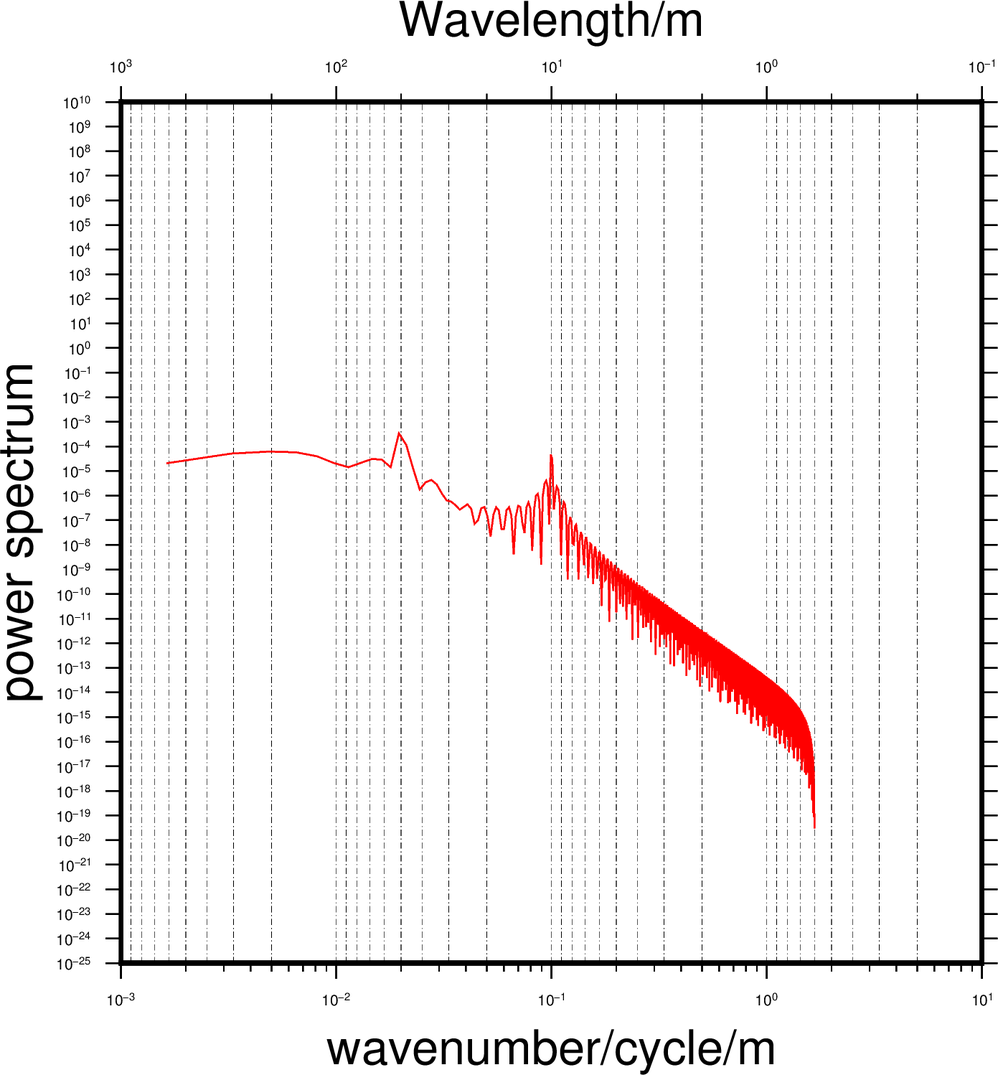
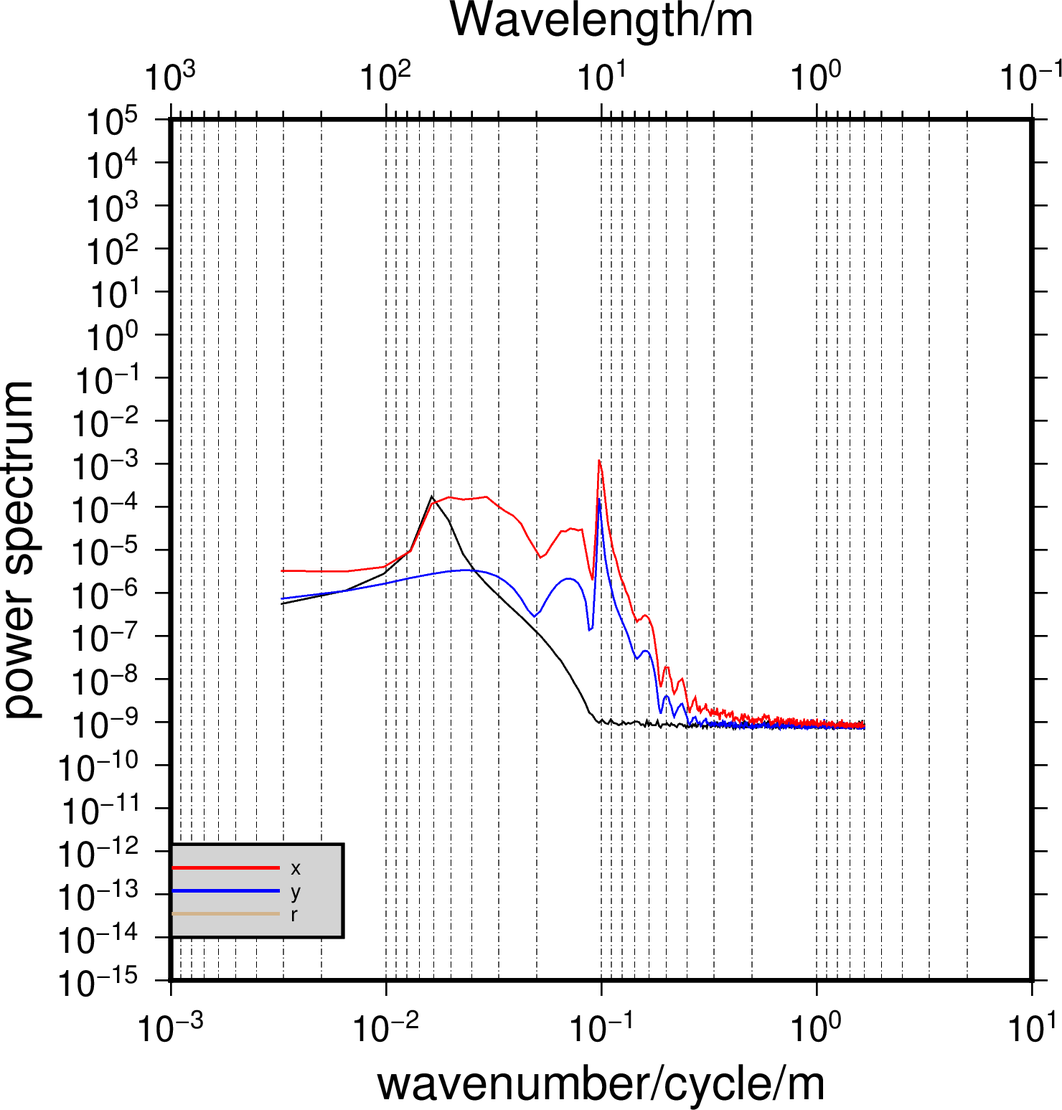
Site updated: 2020-04-19 18:57:03

Changed region(s): [[0.0, 0.0, 1.0, 1.0], [0.9892, 0.0307, 1.0, 0.0614]]

diff --git a/2020/02/15/wavenumber/index.html b/2020/02/15/wavenumber/index.html
@@ -57,7 +57,7 @@
 <meta property="og:image" content="http://assz0a.coding-pages.com/images/gf-fft.png">
 <meta property="og:image" content="http://assz0a.coding-pages.com/images/grid_fft.png">
 <meta property="article:published_time" content="2020-02-15T14:01:51.000Z">
-<meta property="article:modified_time" content="2020-03-02T08:07:08.500Z">
+<meta property="article:modified_time" content="2020-04-19T10:56:23.238Z">
 <meta property="article:author" content="Yang Lei">
 <meta property="article:tag" content="GMT">
 <meta property="article:tag" content="DFT">
@@ -227,7 +227,7 @@
                   <i class="fa fa-calendar-check-o"></i>
                 </span>
                 <span class="post-meta-item-text">更新于</span>
-                <time title="修改时间：2020-03-02 16:07:08" itemprop="dateModified" datetime="2020-03-02T16:07:08+08:00">2020-03-02</time>
+                <time title="修改时间：2020-04-19 18:56:23" itemprop="dateModified" datetime="2020-04-19T18:56:23+08:00">2020-04-19</time>
               </span>
 
           
@@ -285,14 +285,18 @@
 <li>波长为50m和10m的叠加。</li>
 <li>加入了白噪声。</li>
 </ul>
-<figure class="highlight matlab"><table><tr><td class="gutter"><pre><span class="line">1</span><br><span class="line">2</span><br><span class="line">3</span><br><span class="line">4</span><br><span class="line">5</span><br><span class="line">6</span><br><span class="line">7</span><br><span class="line">8</span><br><span class="line">9</span><br><span class="line">10</span><br><span class="line">11</span><br><span class="line">12</span><br><span class="line">13</span><br><span class="line">14</span><br><span class="line">15</span><br><span class="line">16</span><br><span class="line">17</span><br><span class="line">18</span><br><span class="line">19</span><br><span class="line">20</span><br><span class="line">21</span><br><span class="line">22</span><br><span class="line">23</span><br><span class="line">24</span><br><span class="line">25</span><br><span class="line">26</span><br><span class="line">27</span><br><span class="line">28</span><br><span class="line">29</span><br><span class="line">30</span><br><span class="line">31</span><br><span class="line">32</span><br><span class="line">33</span><br><span class="line">34</span><br><span class="line">35</span><br><span class="line">36</span><br><span class="line">37</span><br><span class="line">38</span><br><span class="line">39</span><br><span class="line">40</span><br><span class="line">41</span><br><span class="line">42</span><br><span class="line">43</span><br><span class="line">44</span><br><span class="line">45</span><br></pre></td><td class="code"><pre><span class="line"><span class="comment">% test NetCDF write</span></span><br><span class="line">clear all;</span><br><span class="line">delete (<span class="string">'test_files.nc'</span>)</span><br><span class="line"></span><br><span class="line">lati = <span class="built_in">linspace</span>(<span class="number">0</span>,<span class="number">1600</span>*<span class="number">0.3</span>,<span class="number">1600</span>);</span><br><span class="line">long = <span class="built_in">linspace</span>(<span class="number">0</span>,<span class="number">801</span>*<span class="number">0.3</span>,<span class="number">801</span>);</span><br><span class="line"></span><br><span class="line"><span class="comment">% simulate wave </span></span><br><span class="line">ssh2 = <span class="built_in">linspace</span>(<span class="number">0</span>,<span class="number">801</span>*<span class="number">1600</span>*<span class="number">0.3</span>,<span class="number">801</span>*<span class="number">1600</span>);</span><br><span class="line">ssh_wave = <span class="built_in">reshape</span> (ssh2,<span class="number">1600</span>,<span class="number">801</span>);</span><br><span class="line">temp = ssh_wave;</span><br><span class="line"><span class="keyword">for</span> <span class="built_in">i</span>=<span class="number">1</span>:<span class="number">1600</span></span><br><span class="line">    <span class="keyword">for</span> <span class="built_in">j</span>=<span class="number">1</span>:<span class="number">801</span></span><br><span class="line">        temp(<span class="built_in">i</span>,<span class="built_in">j</span>) = <span class="number">10</span>*<span class="built_in">cos</span>(<span class="number">2</span>*<span class="built_in">pi</span>/<span class="number">50</span>*ssh_wave(<span class="built_in">i</span>,<span class="built_in">j</span>))+<span class="number">5</span>*<span class="built_in">cos</span>(<span class="number">2</span>*<span class="built_in">pi</span>/<span class="number">10</span>*ssh_wave(<span class="built_in">i</span>,<span class="built_in">j</span>));</span><br><span class="line">    <span class="keyword">end</span></span><br><span class="line"><span class="keyword">end</span></span><br><span class="line"><span class="comment">% add noise</span></span><br><span class="line">ssh_wave = temp;<span class="comment">%+rand(1600,801);</span></span><br><span class="line"></span><br><span class="line"><span class="built_in">plot</span>(temp(<span class="number">1</span>:<span class="number">170</span>))</span><br><span class="line"></span><br><span class="line">nccreate(<span class="string">'test_files.nc'</span>,<span class="string">'lat'</span>,<span class="string">'Dimensions'</span>,&#123;<span class="string">'lat'</span> <span class="number">1600</span>&#125;);</span><br><span class="line">ncwriteatt(<span class="string">'test_files.nc'</span>, <span class="string">'lat'</span>, <span class="string">'standard_name'</span>, <span class="string">'latitude'</span>);</span><br><span class="line">ncwriteatt(<span class="string">'test_files.nc'</span>, <span class="string">'lat'</span>, <span class="string">'long_name'</span>, <span class="string">'latitude'</span>);</span><br><span class="line">ncwriteatt(<span class="string">'test_files.nc'</span>, <span class="string">'lat'</span>, <span class="string">'units'</span>, <span class="string">'degrees north'</span>);</span><br><span class="line">ncwriteatt(<span class="string">'test_files.nc'</span>, <span class="string">'lat'</span>, <span class="string">'_CoordinateAxisType'</span>, <span class="string">'Lat'</span>);</span><br><span class="line"><span class="comment">% ncwriteatt('test_files.nc','/','standard_name','latitude');</span></span><br><span class="line">nccreate(<span class="string">'test_files.nc'</span>,<span class="string">'lon'</span>,<span class="string">'Dimensions'</span>,&#123;<span class="string">'lon'</span> <span class="number">801</span>&#125;);</span><br><span class="line">ncwriteatt(<span class="string">'test_files.nc'</span>, <span class="string">'lon'</span>, <span class="string">'standard_name'</span>, <span class="string">'longitude'</span>);  <span class="comment">% 注意属性名，如果大于360的笛卡尔坐标，都不要用经纬度的名称。</span></span><br><span class="line">ncwriteatt(<span class="string">'test_files.nc'</span>, <span class="string">'lon'</span>, <span class="string">'long_name'</span>, <span class="string">'longitude'</span>);</span><br><span class="line">ncwriteatt(<span class="string">'test_files.nc'</span>, <span class="string">'lon'</span>, <span class="string">'units'</span>, <span class="string">'degrees north'</span>);</span><br><span class="line">ncwriteatt(<span class="string">'test_files.nc'</span>, <span class="string">'lon'</span>, <span class="string">'_CoordinateAxisType'</span>, <span class="string">'Lon'</span>);</span><br><span class="line"></span><br><span class="line">nccreate(<span class="string">'test_files.nc'</span>,<span class="string">'Q'</span>,<span class="string">'datatype'</span>,<span class="string">'double'</span>,<span class="string">'Dimensions'</span>,&#123;<span class="string">'lat'</span> <span class="number">1600</span> <span class="string">'lon'</span> <span class="number">801</span>&#125;);</span><br><span class="line">ncwriteatt(<span class="string">'test_files.nc'</span>, <span class="string">'Q'</span>, <span class="string">'standard_name'</span>, <span class="string">'ssh'</span>);</span><br><span class="line">ncwriteatt(<span class="string">'test_files.nc'</span>, <span class="string">'Q'</span>, <span class="string">'long_name'</span>, <span class="string">'sea surface height'</span>);</span><br><span class="line">ncwriteatt(<span class="string">'test_files.nc'</span>, <span class="string">'Q'</span>, <span class="string">'units'</span>, <span class="string">'m'</span>);</span><br><span class="line"></span><br><span class="line"><span class="comment">% ncdisp('test_files.nc');</span></span><br><span class="line">ncwrite(<span class="string">'test_files.nc'</span>,<span class="string">'lat'</span>,lati);</span><br><span class="line">ncwrite(<span class="string">'test_files.nc'</span>,<span class="string">'lon'</span>,long);</span><br><span class="line"></span><br><span class="line">ncwrite(<span class="string">'test_files.nc'</span>,<span class="string">'Q'</span>,ssh_wave);</span><br><span class="line"></span><br><span class="line">ncdisp(<span class="string">'test_files.nc'</span>);</span><br></pre></td></tr></table></figure>
+<figure class="highlight matlab"><table><tr><td class="gutter"><pre><span class="line">1</span><br><span class="line">2</span><br><span class="line">3</span><br><span class="line">4</span><br><span class="line">5</span><br><span class="line">6</span><br><span class="line">7</span><br><span class="line">8</span><br><span class="line">9</span><br><span class="line">10</span><br><span class="line">11</span><br><span class="line">12</span><br><span class="line">13</span><br><span class="line">14</span><br><span class="line">15</span><br><span class="line">16</span><br><span class="line">17</span><br><span class="line">18</span><br><span class="line">19</span><br><span class="line">20</span><br><span class="line">21</span><br><span class="line">22</span><br><span class="line">23</span><br><span class="line">24</span><br><span class="line">25</span><br><span class="line">26</span><br><span class="line">27</span><br><span class="line">28</span><br><span class="line">29</span><br><span class="line">30</span><br><span class="line">31</span><br><span class="line">32</span><br><span class="line">33</span><br><span class="line">34</span><br><span class="line">35</span><br><span class="line">36</span><br><span class="line">37</span><br><span class="line">38</span><br><span class="line">39</span><br><span class="line">40</span><br><span class="line">41</span><br><span class="line">42</span><br><span class="line">43</span><br><span class="line">44</span><br><span class="line">45</span><br><span class="line">46</span><br><span class="line">47</span><br><span class="line">48</span><br><span class="line">49</span><br><span class="line">50</span><br><span class="line">51</span><br><span class="line">52</span><br><span class="line">53</span><br><span class="line">54</span><br><span class="line">55</span><br><span class="line">56</span><br><span class="line">57</span><br></pre></td><td class="code"><pre><span class="line"><span class="comment">% test NetCDF write</span></span><br><span class="line"><span class="comment">% Author: Yang Lei,2020-04-19,Qingdao. Email:leiyang@fio.org.cn</span></span><br><span class="line">clear all;</span><br><span class="line">delete (<span class="string">'test_simulate.nc'</span>)</span><br><span class="line">lati = <span class="built_in">linspace</span>(<span class="number">0</span>,<span class="number">1600</span>*<span class="number">0.3</span>,<span class="number">1600</span>);</span><br><span class="line">long = <span class="built_in">linspace</span>(<span class="number">0</span>,<span class="number">1600</span>*<span class="number">0.3</span>,<span class="number">1600</span>);</span><br><span class="line"></span><br><span class="line"><span class="comment">% simulate wave </span></span><br><span class="line"><span class="comment">% build 1D sinewave</span></span><br><span class="line">SineMid = <span class="built_in">sin</span>(<span class="number">2</span>*<span class="built_in">pi</span>/<span class="number">10</span>*long);</span><br><span class="line"></span><br><span class="line"><span class="comment">% translate 1D wave into 2D sinewave</span></span><br><span class="line">SinewaveM = <span class="built_in">repmat</span>(SineMid,[<span class="number">1600</span>,<span class="number">1</span>]);</span><br><span class="line">imagesc(SinewaveM)</span><br><span class="line">Angle = <span class="number">10</span>;</span><br><span class="line">Irot = imrotate(SinewaveM, Angle, <span class="string">'loose'</span>, <span class="string">'bilinear'</span>);</span><br><span class="line"><span class="comment">% imagesc(Irot)</span></span><br><span class="line"></span><br><span class="line"><span class="comment">% figure out the image size of new Sinewave.</span></span><br><span class="line">Start = <span class="built_in">floor</span>(<span class="built_in">size</span>(Irot,<span class="number">1</span>)/<span class="number">4</span>);</span><br><span class="line">Stop = <span class="number">3</span>*Start;</span><br><span class="line"> </span><br><span class="line"><span class="comment">% image crop</span></span><br><span class="line">Icrop = Irot(Start:Stop,Start:Stop);</span><br><span class="line">L_x=<span class="built_in">length</span>(Icrop);</span><br><span class="line"></span><br><span class="line">temp=Icrop;</span><br><span class="line"></span><br><span class="line">ssh_wave = temp+<span class="number">0.1</span>*<span class="built_in">rand</span>(L_x,L_x);</span><br><span class="line">imagesc(ssh_wave)</span><br><span class="line"></span><br><span class="line"><span class="comment">% netcdf.create</span></span><br><span class="line">nccreate(<span class="string">'test_simulate.nc'</span>,<span class="string">'lat'</span>,<span class="string">'Dimensions'</span>,&#123;<span class="string">'lat'</span> L_x&#125;);</span><br><span class="line"></span><br><span class="line">ncwriteatt(<span class="string">'test_simulate.nc'</span>, <span class="string">'lat'</span>, <span class="string">'standard_name'</span>, <span class="string">'lat'</span>);</span><br><span class="line">ncwriteatt(<span class="string">'test_simulate.nc'</span>, <span class="string">'lat'</span>, <span class="string">'long_name'</span>, <span class="string">'lat'</span>);</span><br><span class="line">ncwriteatt(<span class="string">'test_simulate.nc'</span>, <span class="string">'lat'</span>, <span class="string">'units'</span>, <span class="string">'meter'</span>);</span><br><span class="line">ncwriteatt(<span class="string">'test_simulate.nc'</span>, <span class="string">'lat'</span>, <span class="string">'_CoordinateAxisType'</span>, <span class="string">'Lat'</span>);</span><br><span class="line"><span class="comment">% ncwriteatt('test_files.nc','/','standard_name','latitude');</span></span><br><span class="line">nccreate(<span class="string">'test_simulate.nc'</span>,<span class="string">'lon'</span>,<span class="string">'Dimensions'</span>,&#123;<span class="string">'lon'</span> L_x&#125;);</span><br><span class="line">ncwriteatt(<span class="string">'test_simulate.nc'</span>, <span class="string">'lon'</span>, <span class="string">'standard_name'</span>, <span class="string">'lon'</span>);</span><br><span class="line">ncwriteatt(<span class="string">'test_simulate.nc'</span>, <span class="string">'lon'</span>, <span class="string">'long_name'</span>, <span class="string">'lon'</span>);</span><br><span class="line">ncwriteatt(<span class="string">'test_simulate.nc'</span>, <span class="string">'lon'</span>, <span class="string">'units'</span>, <span class="string">'meter'</span>);</span><br><span class="line">ncwriteatt(<span class="string">'test_simulate.nc'</span>, <span class="string">'lon'</span>, <span class="string">'_CoordinateAxisType'</span>, <span class="string">'Lon'</span>);</span><br><span class="line"></span><br><span class="line">nccreate(<span class="string">'test_simulate.nc'</span>,<span class="string">'Q'</span>,<span class="string">'datatype'</span>,<span class="string">'double'</span>,<span class="string">'Dimensions'</span>,&#123;<span class="string">'lat'</span> L_x <span class="string">'lon'</span> L_x&#125;);</span><br><span class="line">ncwriteatt(<span class="string">'test_simulate.nc'</span>, <span class="string">'Q'</span>, <span class="string">'standard_name'</span>, <span class="string">'ssh'</span>);</span><br><span class="line">ncwriteatt(<span class="string">'test_simulate.nc'</span>, <span class="string">'Q'</span>, <span class="string">'long_name'</span>, <span class="string">'sea surface height'</span>);</span><br><span class="line">ncwriteatt(<span class="string">'test_simulate.nc'</span>, <span class="string">'Q'</span>, <span class="string">'units'</span>, <span class="string">'m'</span>);</span><br><span class="line"></span><br><span class="line"><span class="comment">% ncdisp('test_files.nc');</span></span><br><span class="line">ncwrite(<span class="string">'test_simulate.nc'</span>,<span class="string">'lat'</span>,lati(<span class="number">1</span>:L_x));</span><br><span class="line">ncwrite(<span class="string">'test_simulate.nc'</span>,<span class="string">'lon'</span>,long(<span class="number">1</span>:L_x));</span><br><span class="line"></span><br><span class="line">ncwrite(<span class="string">'test_simulate.nc'</span>,<span class="string">'Q'</span>,ssh_wave);</span><br><span class="line"></span><br><span class="line">ncdisp(<span class="string">'test_simulate.nc'</span>);</span><br></pre></td></tr></table></figure>
 
-<h3 id="利用GMT的grdfft进行二维FFT分析，得到波数谱。"><a href="#利用GMT的grdfft进行二维FFT分析，得到波数谱。" class="headerlink" title="利用GMT的grdfft进行二维FFT分析，得到波数谱。"></a>利用GMT的grdfft进行二维FFT分析，得到波数谱。</h3><figure class="highlight angelscript"><table><tr><td class="gutter"><pre><span class="line">1</span><br><span class="line">2</span><br><span class="line">3</span><br><span class="line">4</span><br><span class="line">5</span><br><span class="line">6</span><br><span class="line">7</span><br><span class="line">8</span><br><span class="line">9</span><br><span class="line">10</span><br><span class="line">11</span><br></pre></td><td class="code"><pre><span class="line">#!/bin/bash</span><br><span class="line">gmt gmtset MAP_GRID_PEN_PRIMARY	= <span class="number">0.1</span>p,<span class="number">0</span>/<span class="number">0</span>/<span class="number">0</span>,<span class="number">2</span>_1_0<span class="number">.25</span>_1:<span class="number">0</span></span><br><span class="line">ps=gf-fft.ps</span><br><span class="line">data_jizai=test_files.nc</span><br><span class="line"></span><br><span class="line">gmt grdfft $data_jizai -Ex+w+n -Gjizai.txt</span><br><span class="line">awk <span class="string">'&#123;print $1,$3&#125;'</span> jizai.txt &gt; jizai.d </span><br><span class="line">gmt psbasemap -R0<span class="number">.60</span>/<span class="number">1e3</span>/<span class="number">1e-25</span>/<span class="number">1e10</span> -JX<span class="number">-4</span>il/<span class="number">4</span>il -Bxa1pf2g3+l<span class="string">"Wavelength/m"</span> -Bya1pg+l<span class="string">"power spectrum"</span> -BWNse -K &gt; $ps</span><br><span class="line">gmt psxy -R jizai.d -J -W0<span class="number">.5</span>p,red, -O -K &gt;&gt; $ps</span><br><span class="line">gmt psbasemap -R1e<span class="number">-3</span>/<span class="number">1e1</span>/<span class="number">1e-25</span>/<span class="number">1e10</span> -JX4il/<span class="number">4</span>il -BSE -Bxa1pf3+l<span class="string">"wavenumber/cycle/m"</span> -O &gt;&gt; $ps</span><br><span class="line">gmt psconvert $ps -A -P -Tg</span><br></pre></td></tr></table></figure>
+<h3 id="利用GMT的grdfft进行二维FFT分析，得到波数谱。"><a href="#利用GMT的grdfft进行二维FFT分析，得到波数谱。" class="headerlink" title="利用GMT的grdfft进行二维FFT分析，得到波数谱。"></a>利用GMT的grdfft进行二维FFT分析，得到波数谱。</h3><figure class="highlight nginx"><table><tr><td class="gutter"><pre><span class="line">1</span><br><span class="line">2</span><br><span class="line">3</span><br><span class="line">4</span><br><span class="line">5</span><br><span class="line">6</span><br><span class="line">7</span><br><span class="line">8</span><br><span class="line">9</span><br><span class="line">10</span><br><span class="line">11</span><br><span class="line">12</span><br><span class="line">13</span><br><span class="line">14</span><br><span class="line">15</span><br><span class="line">16</span><br><span class="line">17</span><br><span class="line">18</span><br><span class="line">19</span><br><span class="line">20</span><br><span class="line">21</span><br><span class="line">22</span><br><span class="line">23</span><br><span class="line">24</span><br><span class="line">25</span><br><span class="line">26</span><br><span class="line">27</span><br><span class="line">28</span><br><span class="line">29</span><br><span class="line">30</span><br><span class="line">31</span><br><span class="line">32</span><br><span class="line">33</span><br><span class="line">34</span><br><span class="line">35</span><br><span class="line">36</span><br><span class="line">37</span><br><span class="line">38</span><br><span class="line">39</span><br><span class="line">40</span><br><span class="line">41</span><br><span class="line">42</span><br></pre></td><td class="code"><pre><span class="line"><span class="comment">#!/bin/bash</span></span><br><span class="line"><span class="attribute">gmt</span> gmtset MAP_GRID_PEN_PRIMARY	= <span class="number">0</span>.1p,<span class="number">0</span>/<span class="number">0</span>/<span class="number">0</span>,2_1_0.25_1:<span class="number">0</span></span><br><span class="line"></span><br><span class="line">ps=gf-fft.ps</span><br><span class="line"></span><br><span class="line">data_jizai=test_simulate.nc</span><br><span class="line"></span><br><span class="line">gmt grdfft <span class="variable">$data_jizai</span> -Ex+w+n -Gx.txt</span><br><span class="line">gmt grdfft <span class="variable">$data_jizai</span> -Ey+w+n -Gy.txt</span><br><span class="line">gmt grdfft <span class="variable">$data_jizai</span> -Er+w+n -Gr.txt</span><br><span class="line"></span><br><span class="line">awk <span class="string">'&#123;print <span class="variable">$1</span>,<span class="variable">$2</span>&#125;'</span> x.txt &gt; jizai.x </span><br><span class="line">awk <span class="string">'&#123;print <span class="variable">$1</span>,<span class="variable">$2</span>&#125;'</span> y.txt &gt; jizai.y</span><br><span class="line">awk <span class="string">'&#123;print <span class="variable">$1</span>,<span class="variable">$2</span>&#125;'</span> r.txt &gt; jizai.z</span><br><span class="line"></span><br><span class="line">x=`awk <span class="string">'&#123;print <span class="variable">$1</span>,<span class="variable">$2</span>&#125;'</span> x.txt | sort -k <span class="number">2</span> | head -n <span class="number">1</span> | awk <span class="string">'&#123;print <span class="variable">$1</span>&#125;'</span>`</span><br><span class="line">y=`awk <span class="string">'&#123;print <span class="variable">$1</span>,<span class="variable">$2</span>&#125;'</span> y.txt | sort -k <span class="number">2</span> | head -n <span class="number">1</span> | awk <span class="string">'&#123;print <span class="variable">$1</span>&#125;'</span>`</span><br><span class="line">r=`awk <span class="string">'&#123;print <span class="variable">$1</span>,<span class="variable">$2</span>&#125;'</span> r.txt | sort -k <span class="number">2</span> | head -n <span class="number">1</span> | awk <span class="string">'&#123;print <span class="variable">$1</span>&#125;'</span>`</span><br><span class="line"></span><br><span class="line">echo <span class="variable">$x</span> <span class="variable">$y</span> <span class="variable">$r</span></span><br><span class="line">gmt gmtmath -Q <span class="variable">$x</span> <span class="variable">$y</span> DIV ATAN <span class="number">180</span> pi DIV MUL <span class="number">90</span> SUB NEG =</span><br><span class="line"></span><br><span class="line">gmt psbasemap -R0.<span class="number">1</span>/1e3/1e-<span class="number">15</span>/1e5 -JX-4il/4il -Bxa1pf3g3+l<span class="string">"Wavelength/m"</span> -Bya1pf1+l<span class="string">"power spectrum"</span> -BWNe -K &gt; <span class="variable">$ps</span></span><br><span class="line"></span><br><span class="line">gmt psxy -R jizai.x  -J -W0.5p,black, -O -K &gt;&gt; <span class="variable">$ps</span></span><br><span class="line">gmt psxy -R jizai.y -J -W0.5p,blue, -O -K &gt;&gt; <span class="variable">$ps</span></span><br><span class="line">gmt psxy -R jizai.z -J -W0.5p,red, -O -K &gt;&gt; <span class="variable">$ps</span></span><br><span class="line"></span><br><span class="line">gmt psbasemap -R1e-<span class="number">3</span>/1e1/1e-<span class="number">15</span>/1e5 -JX4il/4il -BSE -Bxa1p+l<span class="string">"wavenumber/cycle/m"</span> -O -K&gt;&gt; <span class="variable">$ps</span></span><br><span class="line"></span><br><span class="line">gmt pslegend -D+w0.8i+jBL+o0i/.2i -R -J -O -F+p1p+glightgray --FONT_ANNOT_PRIMARY=7p &lt;&lt; EOF &gt;&gt; <span class="variable">$ps</span></span><br><span class="line">S <span class="number">0</span>.2i - <span class="number">0</span>.5i - 1p,red <span class="number">0</span>.5i x</span><br><span class="line">S <span class="number">0</span>.2i - <span class="number">0</span>.5i - 1p,blue <span class="number">0</span>.5i y  </span><br><span class="line">S <span class="number">0</span>.2i - <span class="number">0</span>.5i - 1p,tan <span class="number">0</span>.5i r</span><br><span class="line">EOF</span><br><span class="line"></span><br><span class="line"></span><br><span class="line">gmt psconvert <span class="variable">$ps</span> -A -P -Tg</span><br><span class="line"></span><br><span class="line"></span><br><span class="line"></span><br><span class="line">rm <span class="regexp">gmt.*</span> <span class="regexp">jizai.*</span> <span class="regexp">*.cpt</span> <span class="regexp">*.d</span> <span class="regexp">*.nc</span></span><br></pre></td></tr></table></figure>
 <p><img src="/images/gf-fft.png" alt></p>
 <h3 id="PLOT-grid"><a href="#PLOT-grid" class="headerlink" title="PLOT grid"></a>PLOT grid</h3><figure class="highlight bash"><table><tr><td class="gutter"><pre><span class="line">1</span><br><span class="line">2</span><br><span class="line">3</span><br><span class="line">4</span><br><span class="line">5</span><br><span class="line">6</span><br><span class="line">7</span><br><span class="line">8</span><br><span class="line">9</span><br><span class="line">10</span><br><span class="line">11</span><br><span class="line">12</span><br></pre></td><td class="code"><pre><span class="line"><span class="meta">#!/usr/bin/env bash</span></span><br><span class="line">	</span><br><span class="line">data=test_files.nc</span><br><span class="line"></span><br><span class="line">ps=mss.ps</span><br><span class="line">J=JX4i</span><br><span class="line"></span><br><span class="line">gmt makecpt -Crainbow -T-13/13/0.01 -Z &gt;mss.cpt</span><br><span class="line">gmt psbasemap -R<span class="variable">$data</span> -<span class="variable">$J</span> -BWNSE -Bxya100 -K &gt; <span class="variable">$ps</span></span><br><span class="line">gmt grdimage <span class="variable">$data</span> -<span class="variable">$J</span> -Cmss.cpt -K -O &gt;&gt; <span class="variable">$ps</span></span><br><span class="line">gmt psscale -DjCB+w1.5i+o0/-1.4c+h -Cmss -Bxaf -By+lm -R -J -O -V &gt;&gt; <span class="variable">$ps</span></span><br><span class="line">gmt psconvert mss.ps -A -P -Tg</span><br></pre></td></tr></table></figure>
 <p><img src="/images/grid_fft.png" alt></p>
 <h2 id="Attention"><a href="#Attention" class="headerlink" title="Attention"></a>Attention</h2><ul>
 <li>如果matlab中的XY属性给的随意，写成了longitude，latitude，而实际上是笛卡尔坐标，则GMT在识别的时候仍旧认为是经纬度，因此不能大于360或者90.所以在写nc文件的时候要注意属性名称。</li>
+<li>kx和ky的计算分别使用-Ex和-Ey.</li>
+<li>默认的计算方向是the radial direction </li>
+<li>波的传播方向可以通过kx和ky的波长计算，atan(ky/kx)。</li>
+<li>波的径向传播方向只能通过径向的FFT计算，不可以简单的相加kx和ky。</li>
 </ul>
 
     </div>

diff --git a/index.html b/index.html
@@ -311,7 +311,7 @@
                   <i class="fa fa-calendar-check-o"></i>
                 </span>
                 <span class="post-meta-item-text">更新于</span>
-                <time title="修改时间：2020-03-02 16:07:08" itemprop="dateModified" datetime="2020-03-02T16:07:08+08:00">2020-03-02</time>
+                <time title="修改时间：2020-04-19 18:56:23" itemprop="dateModified" datetime="2020-04-19T18:56:23+08:00">2020-04-19</time>
               </span>
 
           
